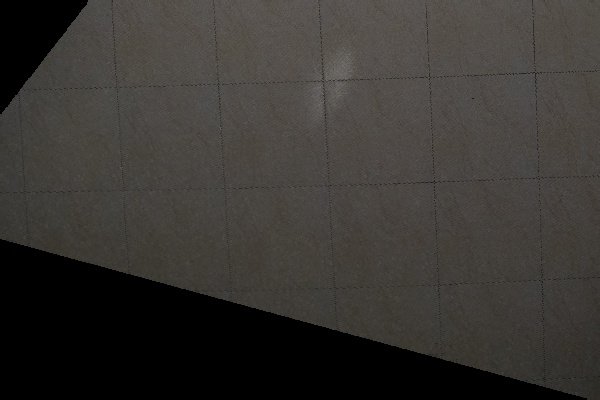
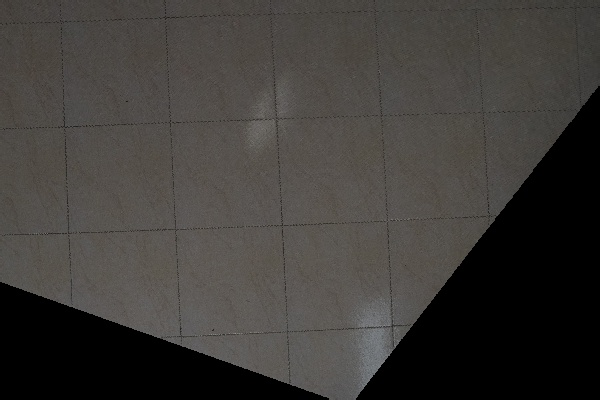
q3 done.

diff --git a/assign1/config.py b/assign1/config.py
@@ -35,4 +35,29 @@ PERP_COORDS = [[[200,99],[390,55],[390,55],[504,196],\
                 [390,55],[504,196],[504,196],[283,269],\
                 [504,196],[283,269],[283,269],[200,99],\
                 [283,269],[200,99],[200,99],[390,55],\
-                [200,99],[504,196],[283,269],[390,55]]]
+                [200,99],[504,196],[283,269],[390,55]],\
+               [[109,212],[280,150],[280,150],[533,266],\
+                [280,150],[533,266],[533,266],[332,290],\
+                [533,266],[332,290],[332,290],[109,212],\
+                [332,290],[109,212],[109,212],[280,150],\
+                [109,212],[533,266],[280,150],[332,290]],\
+               [[112,109],[294,78],[294,78],[384,222],\
+                [294,78],[384,222],[384,222],[174,293],\
+                [384,222],[174,293],[174,293],[112,109],\
+                [174,293],[112,109],[112,109],[294,78],\
+                [112,109],[384,222],[174,293],[294,78]],\
+               [[284,108],[374,117],[374,117],[369,193],\
+                [374,117],[369,193],[369,193],[266,183],\
+                [369,193],[266,183],[266,183],[284,108],\
+                [266,183],[284,108],[284,108],[374,117],\
+                [52,170],[88,267],[88,267],[200,243]],\
+               [[213,130],[392,76],[392,76],[390,220],\
+                [392,76],[390,220],[390,220],[224,338],\
+                [390,220],[224,338],[224,338],[213,130],\
+                [224,338],[213,130],[213,130],[392,76],\
+                [395,23],[391,50],[391,50],[428,43]],\
+               [[357,40],[584,116],[584,116],[568,320],\
+                [584,116],[568,320],[568,320],[331,387],\
+                [568,320],[331,387],[331,387],[357,40],\
+                [331,387],[357,40],[357,40],[584,116],\
+                [106,233],[258,230],[258,230],[266,96]]]

diff --git a/assign1/perp_rectify.py b/assign1/perp_rectify.py
@@ -19,14 +19,10 @@ for k, file in enumerate(files):
     cv2.destroyAllWindows()
 
     p_coords = coords.flatten().reshape(10,2,-1)
-    print(p_coords)
     p_lines = []
     for i in range(p_coords.shape[0]):
         p_lines.append(get_line(p_coords[i]))
     
-    for i in p_lines:
-        print(i)
-
     A = np.zeros((5,6))
     for i in range(A.shape[0]):
         l1,l2 = p_lines[2*i],p_lines[2*i+1]
@@ -36,27 +32,20 @@ for k, file in enumerate(files):
 
     _,_,vh = np.linalg.svd(A)
     x = vh.T[:,-1]
-    print('x:',x)
     s = np.asarray([[x[0],0.5*x[1],0.5*x[3]],\
                     [0.5*x[1],x[2],0.5*x[4]],\
                     [0.5*x[3],0.5*x[4],x[5]]])
-    print('s:')
-    print(s)
+
     u,d,_ = np.linalg.svd(s)
     d = np.sqrt(d); d[-1] = 1
     H = np.matmul(u,np.diag(d))
-    print('root_d:',d)
     H_inv = np.linalg.pinv(H)
     H_inv = np.divide(H_inv,H_inv[-1,-1])
-    print('H_inv:')
-    print(H_inv)
 
-    img_n = get_shifted_rectified_image(img,H_inv,x_off=img.shape[1],y_off=img.shape[0])
+    img_n = get_shifted_rectified_image(img,H_inv,x_off=img.shape[1],y_off=1.5*img.shape[0])
     fname = 'q3' + str(k+1) + '.jpg'
+    img_n = cv2.rotate(img_n, cv2.ROTATE_180)
     cv2.imwrite(fname,img_n)
     cv2.imshow('rect_img',img_n)
     cv2.waitKey(0)
     cv2.destroyAllWindows()
-
-    if k == 0:
-        break

diff --git a/assign1/utils.py b/assign1/utils.py
@@ -82,10 +82,10 @@ def get_shifted_rectified_image(img,H,x_off=0,y_off=0):
         for x in range(w):
             x_new, y_new, z_new = H.dot([x,y,1])
             x_new, y_new = int(np.around(x_new/z_new)),int(np.around(y_new/z_new))
-            print(x_new,y_new)
+            # print(x_new,y_new)
             x_new = x_new + int(x_off)
             y_new = y_new + int(y_off)
-            print('n:',x_new,y_new)
+            # print('n:',x_new,y_new)
             if 0 <= x_new < w and 0 <= y_new < h:
                 r_img[y_new,x_new,:] = img[y,x,:]
 
